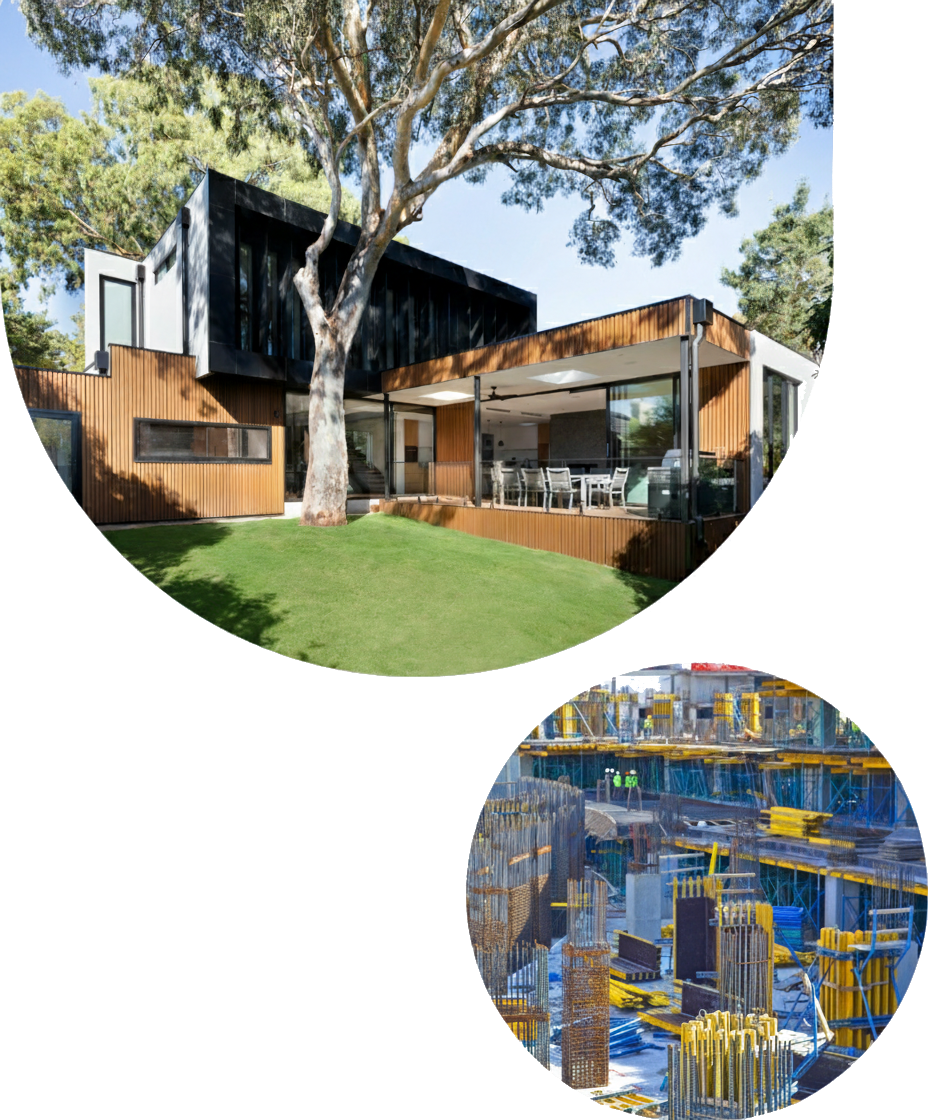
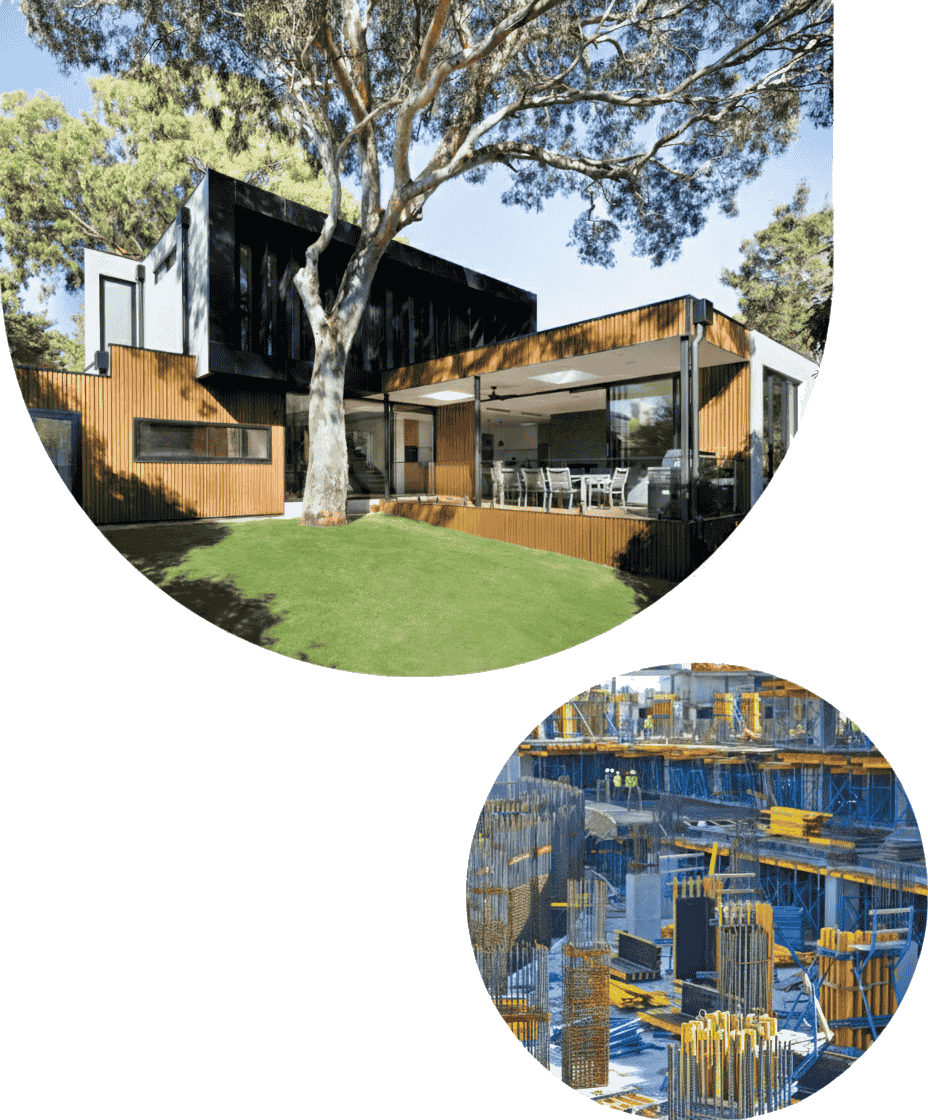
Image Resolution Changes

diff --git a/index.html b/index.html
@@ -317,9 +317,9 @@
                                         <div class="home-feature-listing-image">
                                             <div class="reveal-image-trigger">
                                                 <img width="625" data-w-id="9216a32d-c2ea-f918-62ba-0d719cebbef6"
-                                                    alt="Property image" src="images/office.avif" loading="lazy"
+                                                    alt="Property image" src="images/office.jpg" loading="lazy"
                                                     sizes="(max-width: 479px) 93vw, (max-width: 767px) 96vw, (max-width: 991px) 92vw, (max-width: 1439px) 46vw, 625px"
-                                                    srcset="images/office.avif 500w, images/office.avif 812w"
+                                                    srcset="images/office.jpg 500w, images/office.jpg 812w"
                                                     class="reveal-image" />
                                                 <div class="reveal-image-cover"></div>
                                             </div>
@@ -860,7 +860,7 @@
                                         drawings or a detailed estimate?</h2>
                                 </div>
                                 <div data-w-id="c7f7457a-482a-d2d6-2449-a70732201eb5" class="button-container">
-                                    <a href="./contactus.html" class="button-primary-outline w-inline-block">
+                                    <a href="./contactus.html" class="gettouch-button-primary-outline w-inline-block">
                                         <div class="button-box">
                                             <div>Get In Touch</div>
                                             <div class="button-icon">

diff --git a/service.html b/service.html
@@ -241,7 +241,7 @@
                         <!-- Rebar Estimation Service -->
                         <div class="service-card" data-aos="fade-up" data-aos-delay="100"
                             style="background: #fff; padding: 35px; border-radius: 15px; box-shadow: 0 10px 30px rgba(0,0,0,0.07); transition: transform 0.3s ease;">
-                            <img src="images/serviceestimation.avif" alt="Rebar Estimation Icon"
+                            <img src="images/serviceestimation.jpg" alt="Rebar Estimation Icon"
                                 style=" margin-bottom: 20px;">
                             <h3 style="font-size: 26px; font-weight: 700; margin-bottom: 15px;">Rebar Estimation</h3>
                             <p style="font-size: 16px; color: #555; line-height: 1.7; margin-bottom: 25px;">

diff --git a/styles.css b/styles.css
@@ -2368,6 +2368,26 @@ img {
     background-color: var(--color-primary);
     color: var(--color-white)
 }
+.gettouch-button-primary-outline {
+    border: 1px solid var(--color-white);
+    color: var(--color-white);
+    border-radius: 99px;
+    justify-content: center;
+    align-items: center;
+    height: 52px;
+    padding: 15px 30px;
+    font-size: 18px;
+    font-weight: 500;
+    transition: color .4s,background-color .4s;
+    display: inline-flex
+}
+
+.gettouch-button-primary-outline:hover {
+    background-color: var(--color-white);
+    color: var(--color-primary)
+    /* background-color: var(--color-primary);
+    color: var(--color-white) */
+}
 
 .utilities-section-content {
     grid-column-gap: 32px;
